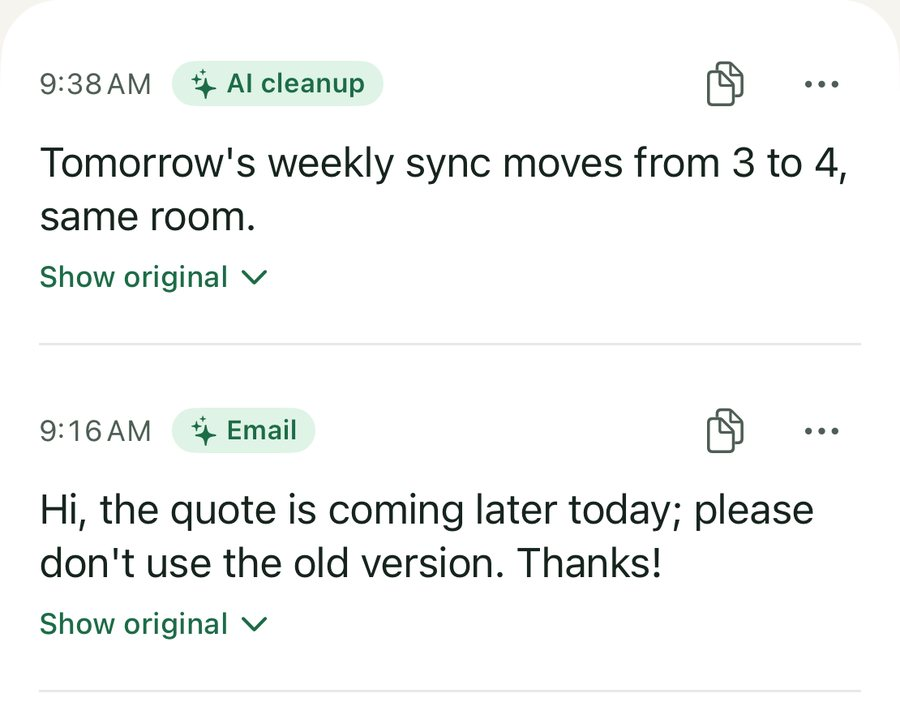
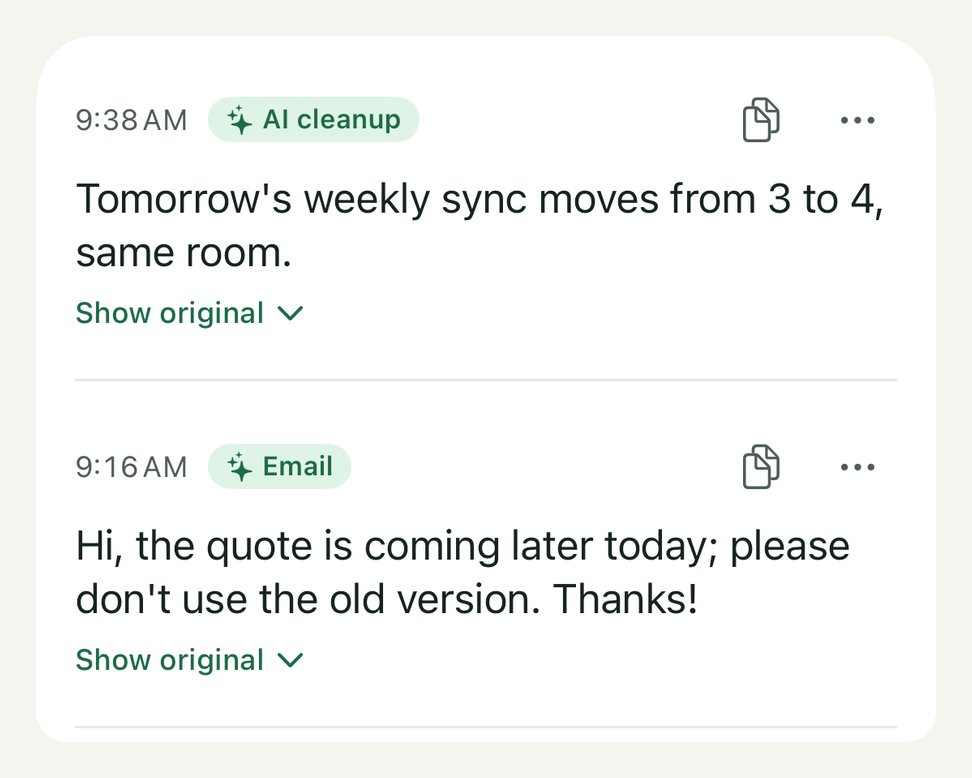
iPhone guide: give the app screenshots a margin so nothing is clipped
The crops ran edge to edge of the app's cards, so the page's rounded boxes cut
off the first letters and the switches on phones.

diff --git a/en/iphone/guide/index.html b/en/iphone/guide/index.html
@@ -75,7 +75,7 @@ a{text-decoration:none}
           <p style="margin:0;font-size:16px;line-height:1.7;color:var(--muted);text-wrap:pretty">It asks for the microphone, has you try a sentence, then turns on the keyboard. Follow along and you’re set.</p>
         </div>
         <div style="margin-top:auto;display:flex;flex-direction:column;gap:14px">
-          <div style="position:relative;width:100%;aspect-ratio:700/520;overflow:hidden;border-radius:18px;border:1px solid var(--line);background:#F4F2EE"><img src="/parroting/assets/iphone/guide/en/home.jpg" alt="Parroting’s Home screen" loading="lazy" style="position:absolute;inset:0;width:100%;height:100%;object-fit:cover;display:block"></div>
+          <div style="position:relative;width:100%;aspect-ratio:900/668;overflow:hidden;border-radius:18px;border:1px solid var(--line);background:#F4F2EE"><img src="/parroting/assets/iphone/guide/en/home.jpg" alt="Parroting’s Home screen" loading="lazy" style="position:absolute;inset:0;width:100%;height:100%;object-fit:cover;display:block"></div>
           <div style="display:flex;align-items:center;gap:14px;flex-wrap:wrap">
           <a href="https://apps.apple.com/app/id6828834904" style="display:block;line-height:0"><img src="/parroting/assets/badges/download-on-the-app-store-en-us.svg" alt="Download on the App Store" style="height:44px;width:auto"></a>
           </div>
@@ -109,7 +109,7 @@ a{text-decoration:none}
           <h3 style="margin:0;font-size:clamp(21px,1.8cqi,25px);font-weight:800;line-height:1.35">Turn on “Allow Full Access”</h3>
           <p style="margin:0;font-size:16px;line-height:1.7;color:var(--muted);text-wrap:pretty">On the “Keyboards” page, turn on both “Parroting” and “Allow Full Access”. The keyboard needs it to talk to the app and put text in the field; what you type is never collected.</p>
         </div>
-        <div style="margin-top:auto;position:relative;width:100%;aspect-ratio:615/230;overflow:hidden;border-radius:18px;border:1px solid var(--line)">
+        <div style="margin-top:auto;position:relative;width:100%;aspect-ratio:972/408;overflow:hidden;border-radius:18px;border:1px solid var(--line)">
           <img src="/parroting/assets/iphone/guide/en/onboard.jpg" alt="Parroting and Allow Full Access both turned on" loading="lazy" style="position:absolute;inset:0;width:100%;height:100%;object-fit:cover;display:block">
         </div>
       </div>
@@ -277,7 +277,7 @@ a{text-decoration:none}
         <span style="align-self:flex-start;font-size:13px;font-weight:700;color:var(--f2-ink);background:var(--f2-pill);border-radius:999px;padding:4px 12px">Translate</span>
         <h3 style="margin:0;font-size:clamp(28px,3cqi,44px);font-weight:900;line-height:1.2;text-wrap:balance">Tap a language, get the translation</h3>
         <ol style="margin:0;padding:0;list-style:none;display:flex;flex-direction:column;gap:10px;max-width:440px"><li style="display:flex;gap:12px;align-items:flex-start;font-size:16px;line-height:1.65"><b style="flex:none;width:26px;height:26px;margin-top:1px;border-radius:50%;background:#247A52;color:#FFFFFF;font-size:13px;display:flex;align-items:center;justify-content:center">1</b><span>Select the text to translate (or the take you just said) and switch to the “Translate” page.</span></li><li style="display:flex;gap:12px;align-items:flex-start;font-size:16px;line-height:1.65"><b style="flex:none;width:26px;height:26px;margin-top:1px;border-radius:50%;background:#247A52;color:#FFFFFF;font-size:13px;display:flex;align-items:center;justify-content:center">2</b><span>Tap a language; the translation replaces the text in the field.</span></li><li style="display:flex;gap:12px;align-items:flex-start;font-size:16px;line-height:1.65"><b style="flex:none;width:26px;height:26px;margin-top:1px;border-radius:50%;background:#247A52;color:#FFFFFF;font-size:13px;display:flex;align-items:center;justify-content:center">3</b><span>To get the original back, tap ↶.</span></li></ol>
-        <div style="display:flex;flex-direction:column;gap:8px;max-width:440px"><span style="font-size:15px;line-height:1.7;color:var(--muted)">Change your four languages in Settings › Translation languages:</span><div style="position:relative;width:100%;aspect-ratio:644/126;overflow:hidden;border-radius:18px;border:1px solid var(--line);background:#F4F2EE"><img src="/parroting/assets/iphone/guide/en/translate-langs.jpg" alt="Translation languages in Settings" loading="lazy" style="position:absolute;inset:0;width:100%;height:100%;object-fit:cover;display:block"></div></div>
+        <div style="display:flex;flex-direction:column;gap:8px;max-width:440px"><span style="font-size:15px;line-height:1.7;color:var(--muted)">Change your four languages in Settings › Translation languages:</span><div style="position:relative;width:100%;aspect-ratio:972/248;overflow:hidden;border-radius:18px;border:1px solid var(--line);background:#F4F2EE"><img src="/parroting/assets/iphone/guide/en/translate-langs.jpg" alt="Translation languages in Settings" loading="lazy" style="position:absolute;inset:0;width:100%;height:100%;object-fit:cover;display:block"></div></div>
       </div>
       <div style="flex:1.4 1 360px;min-width:0;border-radius:32px;overflow:hidden;background:radial-gradient(55% 65% at 15% 25%,var(--f2-a),transparent 70%),radial-gradient(50% 60% at 88% 80%,var(--f4-a),transparent 72%),var(--f2-base);display:flex;align-items:center;justify-content:center;padding:clamp(18px,3.4cqi,48px)">
         <div style="width:100%;max-width:480px;display:flex;flex-direction:column"><div style="position:relative;z-index:2;background:var(--bubble);border-radius:22px;padding:clamp(14px,1.6cqi,20px) clamp(16px,1.8cqi,24px);display:flex;gap:12px;align-items:center;box-shadow:0 12px 32px var(--shadow);margin:0 10% -12px 0"><span style="flex:none;font-size:12px;font-weight:700;color:var(--muted);border:1px solid var(--line);border-radius:999px;padding:3px 10px;white-space:nowrap">Original</span><p style="margin:0;font-size:clamp(16px,1.5cqi,20px);line-height:1.5"><span style="background:var(--f2-a);border-radius:5px;padding:0 4px">下週的會議改到四點，地點不變。</span></p></div><div style="position:relative;width:100%;aspect-ratio:900/940;overflow:hidden;border-radius:8% / 7.6%;background:#E4E5E9;box-shadow:0 12px 32px var(--shadow)"><img src="/parroting/assets/iphone/guide/en/kb-translate.jpg" loading="lazy" alt="The keyboard’s Translate page" style="position:absolute;max-width:none;width:102%;left:-1%;top:-2.5%;display:block"><span style="position:absolute;left:51.02%;top:35.63%;width:45.9%;height:11.029%;box-sizing:border-box;border:3px solid #247A52;border-radius:18px;background:rgba(36,122,82,.10);box-shadow:0 0 0 5px rgba(255,255,255,.75)"><b style="position:absolute;left:-14px;top:-14px;width:28px;height:28px;border-radius:50%;background:#247A52;color:#FFFFFF;border:3px solid #FFFFFF;box-sizing:border-box;font-size:13px;display:flex;align-items:center;justify-content:center">1</b></span><span style="position:absolute;left:1.04%;top:72.394%;width:12.75%;height:10.714%;box-sizing:border-box;border:3px solid #247A52;border-radius:18px;background:rgba(36,122,82,.10);box-shadow:0 0 0 5px rgba(255,255,255,.75)"><b style="position:absolute;left:-14px;top:-14px;width:28px;height:28px;border-radius:50%;background:#247A52;color:#FFFFFF;border:3px solid #FFFFFF;box-sizing:border-box;font-size:13px;display:flex;align-items:center;justify-content:center">2</b></span></div><div style="position:relative;z-index:2;background:var(--f1-res);border:1px solid var(--f1-bd);border-radius:22px;padding:clamp(14px,1.6cqi,20px) clamp(16px,1.8cqi,24px);display:flex;gap:12px;align-items:center;box-shadow:0 12px 32px var(--shadow);margin:-20px 0 0 10%"><span style="flex:none;font-size:12px;font-weight:700;color:var(--f1-ink);background:var(--f1-pill);border-radius:999px;padding:3px 10px;white-space:nowrap">English</span><p style="margin:0;font-size:clamp(17px,1.6cqi,22px);line-height:1.5;font-weight:800">Next week’s meeting moves to 4 pm. Same room.</p></div></div>
@@ -301,7 +301,7 @@ a{text-decoration:none}
         <div style="display:flex;flex-direction:column;align-items:flex-start;gap:10px"><div style="display:flex;align-items:center;gap:10px;background:var(--bubble);border-radius:999px;padding:9px 18px;font-size:17px;box-shadow:0 6px 18px var(--shadow)"><s style="color:var(--muted)">eye cloud</s><span style="color:var(--f1-ink)">→</span><b>iCloud</b></div><div style="display:flex;align-items:center;gap:10px;background:var(--bubble);border-radius:999px;padding:9px 18px;font-size:17px;box-shadow:0 6px 18px var(--shadow)"><s style="color:var(--muted)">Alex Chan</s><span style="color:var(--f1-ink)">→</span><b>Alex Chen</b></div></div>
       </div>
       <div style="flex:1.4 1 360px;min-width:0;border-radius:32px;background:radial-gradient(60% 70% at 20% 30%,var(--f1-a),transparent 70%),var(--f1-base);padding:clamp(18px,3.4cqi,48px);display:flex;justify-content:center">
-        <div style="width:100%;max-width:440px;box-shadow:0 12px 32px var(--shadow);border-radius:18px"><div style="position:relative;width:100%;aspect-ratio:644/575;overflow:hidden;border-radius:18px;border:1px solid var(--line);background:#F4F2EE"><img src="/parroting/assets/iphone/guide/en/dictionary.jpg" alt="Words in the Parroting dictionary" loading="lazy" style="position:absolute;inset:0;width:100%;height:100%;object-fit:cover;display:block"></div></div>
+        <div style="width:100%;max-width:440px;box-shadow:0 12px 32px var(--shadow);border-radius:18px"><div style="position:relative;width:100%;aspect-ratio:972/876;overflow:hidden;border-radius:18px;border:1px solid var(--line);background:#F4F2EE"><img src="/parroting/assets/iphone/guide/en/dictionary.jpg" alt="Words in the Parroting dictionary" loading="lazy" style="position:absolute;inset:0;width:100%;height:100%;object-fit:cover;display:block"></div></div>
       </div>
     </div>
     <div style="margin-top:clamp(56px,6cqi,96px);display:flex;flex-direction:column;gap:20px">
@@ -342,21 +342,21 @@ a{text-decoration:none}
     <div style="display:grid;grid-template-columns:repeat(auto-fit,minmax(min(100%,400px),1fr));gap:20px;align-items:start">
       <div style="background:var(--card);border:1px solid var(--line);border-radius:28px;padding:clamp(20px,2.4cqi,32px);display:flex;flex-direction:column;gap:16px">
         <div style="display:flex;flex-direction:column;gap:6px"><h3 style="margin:0;font-size:clamp(20px,1.8cqi,24px);font-weight:800">AI source</h3><p style="margin:0;font-size:16px;line-height:1.7;color:var(--muted);text-wrap:pretty"><b style="color:var(--ink)">Apple built-in</b>: uses Apple Intelligence on your iPhone. Free, works offline, and text never leaves your phone.<br><b style="color:var(--ink)">My API key</b>: paste a Gemini, OpenAI, OpenRouter, Groq or custom key. Text goes straight from your phone to the service you pick, never through Parroting.</p></div>
-        <div style="position:relative;width:100%;aspect-ratio:644/492;overflow:hidden;border-radius:18px;border:1px solid var(--line);background:#F4F2EE"><img src="/parroting/assets/iphone/guide/en/ai-source.jpg" alt="AI source in Settings" loading="lazy" style="position:absolute;inset:0;width:100%;height:100%;object-fit:cover;display:block"></div>
+        <div style="position:relative;width:100%;aspect-ratio:972/759;overflow:hidden;border-radius:18px;border:1px solid var(--line);background:#F4F2EE"><img src="/parroting/assets/iphone/guide/en/ai-source.jpg" alt="AI source in Settings" loading="lazy" style="position:absolute;inset:0;width:100%;height:100%;object-fit:cover;display:block"></div>
       </div>
       <div style="background:var(--card);border:1px solid var(--line);border-radius:28px;padding:clamp(20px,2.4cqi,32px);display:flex;flex-direction:column;gap:16px">
         <div style="display:flex;flex-direction:column;gap:6px"><h3 style="margin:0;font-size:clamp(20px,1.8cqi,24px);font-weight:800">History</h3><p style="margin:0;font-size:16px;line-height:1.7;color:var(--muted);text-wrap:pretty">The “History” tab at the bottom keeps every sentence. Search it, and see the original before cleanup.</p></div>
-        <div style="position:relative;width:100%;aspect-ratio:644/505;overflow:hidden;border-radius:18px;border:1px solid var(--line);background:#F4F2EE"><img src="/parroting/assets/iphone/guide/en/history.jpg" alt="The History tab" loading="lazy" style="position:absolute;inset:0;width:100%;height:100%;object-fit:cover;display:block"></div>
+        <div style="position:relative;width:100%;aspect-ratio:972/778;overflow:hidden;border-radius:18px;border:1px solid var(--line);background:#F4F2EE"><img src="/parroting/assets/iphone/guide/en/history.jpg" alt="The History tab" loading="lazy" style="position:absolute;inset:0;width:100%;height:100%;object-fit:cover;display:block"></div>
       </div>
     </div>
     <div style="margin-top:20px;display:grid;grid-template-columns:repeat(auto-fit,minmax(min(100%,280px),1fr));gap:20px;align-items:start">
       <div style="background:var(--card);border:1px solid var(--line);border-radius:28px;padding:clamp(20px,2.4cqi,32px);display:flex;flex-direction:column;gap:16px">
         <div style="display:flex;flex-direction:column;gap:6px"><h3 style="margin:0;font-size:clamp(20px,1.8cqi,24px);font-weight:800">Recognition language</h3><p style="margin:0;font-size:16px;line-height:1.7;color:var(--muted);text-wrap:pretty">Follows the system by default. Change it here when you speak another language.</p></div>
-        <div style="position:relative;width:100%;aspect-ratio:644/126;overflow:hidden;border-radius:18px;border:1px solid var(--line);background:#F4F2EE"><img src="/parroting/assets/iphone/guide/en/recognition.jpg" alt="Recognition language in Settings" loading="lazy" style="position:absolute;inset:0;width:100%;height:100%;object-fit:cover;display:block"></div>
+        <div style="position:relative;width:100%;aspect-ratio:972/248;overflow:hidden;border-radius:18px;border:1px solid var(--line);background:#F4F2EE"><img src="/parroting/assets/iphone/guide/en/recognition.jpg" alt="Recognition language in Settings" loading="lazy" style="position:absolute;inset:0;width:100%;height:100%;object-fit:cover;display:block"></div>
       </div>
       <div style="background:var(--card);border:1px solid var(--line);border-radius:28px;padding:clamp(20px,2.4cqi,32px);display:flex;flex-direction:column;gap:16px">
         <div style="display:flex;flex-direction:column;gap:6px"><h3 style="margin:0;font-size:clamp(20px,1.8cqi,24px);font-weight:800">My info</h3><p style="margin:0;font-size:16px;line-height:1.7;color:var(--muted);text-wrap:pretty">Fill in your name and title once; the Email format adds them for you.</p></div>
-        <div style="position:relative;width:100%;aspect-ratio:644/90;overflow:hidden;border-radius:18px;border:1px solid var(--line);background:#F4F2EE"><img src="/parroting/assets/iphone/guide/en/my-info.jpg" alt="My info in Settings" loading="lazy" style="position:absolute;inset:0;width:100%;height:100%;object-fit:cover;display:block"></div>
+        <div style="position:relative;width:100%;aspect-ratio:972/198;overflow:hidden;border-radius:18px;border:1px solid var(--line);background:#F4F2EE"><img src="/parroting/assets/iphone/guide/en/my-info.jpg" alt="My info in Settings" loading="lazy" style="position:absolute;inset:0;width:100%;height:100%;object-fit:cover;display:block"></div>
       </div>
       <div style="background:var(--card);border:1px solid var(--line);border-radius:28px;padding:clamp(20px,2.4cqi,32px);display:flex;flex-direction:column;gap:16px">
         <div style="display:flex;flex-direction:column;gap:6px"><h3 style="margin:0;font-size:clamp(20px,1.8cqi,24px);font-weight:800">Something wrong?</h3><p style="margin:0;font-size:16px;line-height:1.7;color:var(--muted);text-wrap:pretty">Tell us right in the app.</p></div>

diff --git a/iphone/guide/index.html b/iphone/guide/index.html
@@ -75,7 +75,7 @@ a{text-decoration:none}
           <p style="margin:0;font-size:16px;line-height:1.7;color:var(--muted);text-wrap:pretty">第一次會帶你允許麥克風、試講一句、再打開鍵盤。跟著做完就能用。</p>
         </div>
         <div style="margin-top:auto;display:flex;flex-direction:column;gap:14px">
-          <div style="position:relative;width:100%;aspect-ratio:700/520;overflow:hidden;border-radius:18px;border:1px solid var(--line);background:#F4F2EE"><img src="/parroting/assets/iphone/guide/zh-Hant/home.jpg" alt="學舌鳥首頁" loading="lazy" style="position:absolute;inset:0;width:100%;height:100%;object-fit:cover;display:block"></div>
+          <div style="position:relative;width:100%;aspect-ratio:900/668;overflow:hidden;border-radius:18px;border:1px solid var(--line);background:#F4F2EE"><img src="/parroting/assets/iphone/guide/zh-Hant/home.jpg" alt="學舌鳥首頁" loading="lazy" style="position:absolute;inset:0;width:100%;height:100%;object-fit:cover;display:block"></div>
           <div style="display:flex;align-items:center;gap:14px;flex-wrap:wrap">
           <a href="https://apps.apple.com/app/id6828834904" style="display:block;line-height:0"><img src="/parroting/assets/badges/download-on-the-app-store-zh-tw.svg" alt="從 App Store 下載" style="height:44px;width:auto"></a>
           </div>
@@ -109,7 +109,7 @@ a{text-decoration:none}
           <h3 style="margin:0;font-size:clamp(21px,1.8cqi,25px);font-weight:800;line-height:1.35">打開「允許完整取用」</h3>
           <p style="margin:0;font-size:16px;line-height:1.7;color:var(--muted);text-wrap:pretty">在「鍵盤」這頁，把「學舌鳥」和「允許完整取用」都打開。鍵盤要靠它和 App 傳話、把字送進輸入框；你打的字不會被收集。</p>
         </div>
-        <div style="margin-top:auto;position:relative;width:100%;aspect-ratio:615/230;overflow:hidden;border-radius:18px;border:1px solid var(--line)">
+        <div style="margin-top:auto;position:relative;width:100%;aspect-ratio:972/408;overflow:hidden;border-radius:18px;border:1px solid var(--line)">
           <img src="/parroting/assets/iphone/guide/zh-Hant/onboard.jpg" alt="學舌鳥與允許完整取用兩個開關都打開" loading="lazy" style="position:absolute;inset:0;width:100%;height:100%;object-fit:cover;display:block">
         </div>
       </div>
@@ -277,7 +277,7 @@ a{text-decoration:none}
         <span style="align-self:flex-start;font-size:13px;font-weight:700;color:var(--f2-ink);background:var(--f2-pill);border-radius:999px;padding:4px 12px">翻譯</span>
         <h3 style="margin:0;font-size:clamp(28px,3cqi,44px);font-weight:900;line-height:1.2;text-wrap:balance">點一個語言，就換成譯文</h3>
         <ol style="margin:0;padding:0;list-style:none;display:flex;flex-direction:column;gap:10px;max-width:440px"><li style="display:flex;gap:12px;align-items:flex-start;font-size:16px;line-height:1.65"><b style="flex:none;width:26px;height:26px;margin-top:1px;border-radius:50%;background:#247A52;color:#FFFFFF;font-size:13px;display:flex;align-items:center;justify-content:center">1</b><span>選取要翻的字（或剛說完那一段），切到「翻譯」分頁。</span></li><li style="display:flex;gap:12px;align-items:flex-start;font-size:16px;line-height:1.65"><b style="flex:none;width:26px;height:26px;margin-top:1px;border-radius:50%;background:#247A52;color:#FFFFFF;font-size:13px;display:flex;align-items:center;justify-content:center">2</b><span>點一個語言，譯文直接換進輸入框。</span></li><li style="display:flex;gap:12px;align-items:flex-start;font-size:16px;line-height:1.65"><b style="flex:none;width:26px;height:26px;margin-top:1px;border-radius:50%;background:#247A52;color:#FFFFFF;font-size:13px;display:flex;align-items:center;justify-content:center">3</b><span>想回到原文，按 ↶。</span></li></ol>
-        <div style="display:flex;flex-direction:column;gap:8px;max-width:440px"><span style="font-size:15px;line-height:1.7;color:var(--muted)">常用的四種語言在「設定 › 翻譯常用語言」換：</span><div style="position:relative;width:100%;aspect-ratio:644/126;overflow:hidden;border-radius:18px;border:1px solid var(--line);background:#F4F2EE"><img src="/parroting/assets/iphone/guide/zh-Hant/translate-langs.jpg" alt="設定裡的翻譯常用語言" loading="lazy" style="position:absolute;inset:0;width:100%;height:100%;object-fit:cover;display:block"></div></div>
+        <div style="display:flex;flex-direction:column;gap:8px;max-width:440px"><span style="font-size:15px;line-height:1.7;color:var(--muted)">常用的四種語言在「設定 › 翻譯常用語言」換：</span><div style="position:relative;width:100%;aspect-ratio:972/248;overflow:hidden;border-radius:18px;border:1px solid var(--line);background:#F4F2EE"><img src="/parroting/assets/iphone/guide/zh-Hant/translate-langs.jpg" alt="設定裡的翻譯常用語言" loading="lazy" style="position:absolute;inset:0;width:100%;height:100%;object-fit:cover;display:block"></div></div>
       </div>
       <div style="flex:1.4 1 360px;min-width:0;border-radius:32px;overflow:hidden;background:radial-gradient(55% 65% at 15% 25%,var(--f2-a),transparent 70%),radial-gradient(50% 60% at 88% 80%,var(--f4-a),transparent 72%),var(--f2-base);display:flex;align-items:center;justify-content:center;padding:clamp(18px,3.4cqi,48px)">
         <div style="width:100%;max-width:480px;display:flex;flex-direction:column"><div style="position:relative;z-index:2;background:var(--bubble);border-radius:22px;padding:clamp(14px,1.6cqi,20px) clamp(16px,1.8cqi,24px);display:flex;gap:12px;align-items:center;box-shadow:0 12px 32px var(--shadow);margin:0 10% -12px 0"><span style="flex:none;font-size:12px;font-weight:700;color:var(--muted);border:1px solid var(--line);border-radius:999px;padding:3px 10px;white-space:nowrap">原文</span><p style="margin:0;font-size:clamp(16px,1.5cqi,20px);line-height:1.5"><span style="background:var(--f2-a);border-radius:5px;padding:0 4px">下週的會議改到四點，地點不變。</span></p></div><div style="position:relative;width:100%;aspect-ratio:900/940;overflow:hidden;border-radius:8% / 7.6%;background:#E4E5E9;box-shadow:0 12px 32px var(--shadow)"><img src="/parroting/assets/iphone/guide/zh-Hant/kb-translate.jpg" loading="lazy" alt="學舌鳥鍵盤翻譯分頁" style="position:absolute;max-width:none;width:102%;left:-1%;top:-2.5%;display:block"><span style="position:absolute;left:51.02%;top:35.63%;width:45.9%;height:11.029%;box-sizing:border-box;border:3px solid #247A52;border-radius:18px;background:rgba(36,122,82,.10);box-shadow:0 0 0 5px rgba(255,255,255,.75)"><b style="position:absolute;left:-14px;top:-14px;width:28px;height:28px;border-radius:50%;background:#247A52;color:#FFFFFF;border:3px solid #FFFFFF;box-sizing:border-box;font-size:13px;display:flex;align-items:center;justify-content:center">1</b></span><span style="position:absolute;left:1.04%;top:72.394%;width:12.75%;height:10.714%;box-sizing:border-box;border:3px solid #247A52;border-radius:18px;background:rgba(36,122,82,.10);box-shadow:0 0 0 5px rgba(255,255,255,.75)"><b style="position:absolute;left:-14px;top:-14px;width:28px;height:28px;border-radius:50%;background:#247A52;color:#FFFFFF;border:3px solid #FFFFFF;box-sizing:border-box;font-size:13px;display:flex;align-items:center;justify-content:center">2</b></span></div><div style="position:relative;z-index:2;background:var(--f1-res);border:1px solid var(--f1-bd);border-radius:22px;padding:clamp(14px,1.6cqi,20px) clamp(16px,1.8cqi,24px);display:flex;gap:12px;align-items:center;box-shadow:0 12px 32px var(--shadow);margin:-20px 0 0 10%"><span style="flex:none;font-size:12px;font-weight:700;color:var(--f1-ink);background:var(--f1-pill);border-radius:999px;padding:3px 10px;white-space:nowrap">English</span><p style="margin:0;font-size:clamp(17px,1.6cqi,22px);line-height:1.5;font-weight:800">Next week’s meeting moves to 4 pm. Same room.</p></div></div>
@@ -301,7 +301,7 @@ a{text-decoration:none}
         <div style="display:flex;flex-direction:column;align-items:flex-start;gap:10px"><div style="display:flex;align-items:center;gap:10px;background:var(--bubble);border-radius:999px;padding:9px 18px;font-size:17px;box-shadow:0 6px 18px var(--shadow)"><s style="color:var(--muted)">愛可勞德</s><span style="color:var(--f1-ink)">→</span><b>iCloud</b></div><div style="display:flex;align-items:center;gap:10px;background:var(--bubble);border-radius:999px;padding:9px 18px;font-size:17px;box-shadow:0 6px 18px var(--shadow)"><s style="color:var(--muted)">陳小名</s><span style="color:var(--f1-ink)">→</span><b>陳小明</b></div></div>
       </div>
       <div style="flex:1.4 1 360px;min-width:0;border-radius:32px;background:radial-gradient(60% 70% at 20% 30%,var(--f1-a),transparent 70%),var(--f1-base);padding:clamp(18px,3.4cqi,48px);display:flex;justify-content:center">
-        <div style="width:100%;max-width:440px;box-shadow:0 12px 32px var(--shadow);border-radius:18px"><div style="position:relative;width:100%;aspect-ratio:644/575;overflow:hidden;border-radius:18px;border:1px solid var(--line);background:#F4F2EE"><img src="/parroting/assets/iphone/guide/zh-Hant/dictionary.jpg" alt="學舌鳥詞典裡的詞彙" loading="lazy" style="position:absolute;inset:0;width:100%;height:100%;object-fit:cover;display:block"></div></div>
+        <div style="width:100%;max-width:440px;box-shadow:0 12px 32px var(--shadow);border-radius:18px"><div style="position:relative;width:100%;aspect-ratio:972/875;overflow:hidden;border-radius:18px;border:1px solid var(--line);background:#F4F2EE"><img src="/parroting/assets/iphone/guide/zh-Hant/dictionary.jpg" alt="學舌鳥詞典裡的詞彙" loading="lazy" style="position:absolute;inset:0;width:100%;height:100%;object-fit:cover;display:block"></div></div>
       </div>
     </div>
     <div style="margin-top:clamp(56px,6cqi,96px);display:flex;flex-direction:column;gap:20px">
@@ -342,21 +342,21 @@ a{text-decoration:none}
     <div style="display:grid;grid-template-columns:repeat(auto-fit,minmax(min(100%,400px),1fr));gap:20px;align-items:start">
       <div style="background:var(--card);border:1px solid var(--line);border-radius:28px;padding:clamp(20px,2.4cqi,32px);display:flex;flex-direction:column;gap:16px">
         <div style="display:flex;flex-direction:column;gap:6px"><h3 style="margin:0;font-size:clamp(20px,1.8cqi,24px);font-weight:800">AI 來源</h3><p style="margin:0;font-size:16px;line-height:1.7;color:var(--muted);text-wrap:pretty"><b style="color:var(--ink)">Apple 內建</b>：用 iPhone 上的 Apple Intelligence，免費、不用網路，文字不離開手機。<br><b style="color:var(--ink)">我的 API key</b>：貼上 Gemini、OpenAI、OpenRouter、Groq 或自訂的 key，文字從手機直接送到你選的服務，不經過學舌鳥。</p></div>
-        <div style="position:relative;width:100%;aspect-ratio:644/492;overflow:hidden;border-radius:18px;border:1px solid var(--line);background:#F4F2EE"><img src="/parroting/assets/iphone/guide/zh-Hant/ai-source.jpg" alt="設定裡的 AI 來源" loading="lazy" style="position:absolute;inset:0;width:100%;height:100%;object-fit:cover;display:block"></div>
+        <div style="position:relative;width:100%;aspect-ratio:972/759;overflow:hidden;border-radius:18px;border:1px solid var(--line);background:#F4F2EE"><img src="/parroting/assets/iphone/guide/zh-Hant/ai-source.jpg" alt="設定裡的 AI 來源" loading="lazy" style="position:absolute;inset:0;width:100%;height:100%;object-fit:cover;display:block"></div>
       </div>
       <div style="background:var(--card);border:1px solid var(--line);border-radius:28px;padding:clamp(20px,2.4cqi,32px);display:flex;flex-direction:column;gap:16px">
         <div style="display:flex;flex-direction:column;gap:6px"><h3 style="margin:0;font-size:clamp(20px,1.8cqi,24px);font-weight:800">紀錄</h3><p style="margin:0;font-size:16px;line-height:1.7;color:var(--muted);text-wrap:pretty">在下方的「紀錄」分頁：說過的每一句都留著，可以搜尋，也能看整理前的原文。</p></div>
-        <div style="position:relative;width:100%;aspect-ratio:644/440;overflow:hidden;border-radius:18px;border:1px solid var(--line);background:#F4F2EE"><img src="/parroting/assets/iphone/guide/zh-Hant/history.jpg" alt="紀錄頁" loading="lazy" style="position:absolute;inset:0;width:100%;height:100%;object-fit:cover;display:block"></div>
+        <div style="position:relative;width:100%;aspect-ratio:972/687;overflow:hidden;border-radius:18px;border:1px solid var(--line);background:#F4F2EE"><img src="/parroting/assets/iphone/guide/zh-Hant/history.jpg" alt="紀錄頁" loading="lazy" style="position:absolute;inset:0;width:100%;height:100%;object-fit:cover;display:block"></div>
       </div>
     </div>
     <div style="margin-top:20px;display:grid;grid-template-columns:repeat(auto-fit,minmax(min(100%,280px),1fr));gap:20px;align-items:start">
       <div style="background:var(--card);border:1px solid var(--line);border-radius:28px;padding:clamp(20px,2.4cqi,32px);display:flex;flex-direction:column;gap:16px">
         <div style="display:flex;flex-direction:column;gap:6px"><h3 style="margin:0;font-size:clamp(20px,1.8cqi,24px);font-weight:800">辨識語言</h3><p style="margin:0;font-size:16px;line-height:1.7;color:var(--muted);text-wrap:pretty">預設跟著系統。講其他語言時，到這裡換。</p></div>
-        <div style="position:relative;width:100%;aspect-ratio:644/126;overflow:hidden;border-radius:18px;border:1px solid var(--line);background:#F4F2EE"><img src="/parroting/assets/iphone/guide/zh-Hant/recognition.jpg" alt="設定裡的辨識語言" loading="lazy" style="position:absolute;inset:0;width:100%;height:100%;object-fit:cover;display:block"></div>
+        <div style="position:relative;width:100%;aspect-ratio:972/248;overflow:hidden;border-radius:18px;border:1px solid var(--line);background:#F4F2EE"><img src="/parroting/assets/iphone/guide/zh-Hant/recognition.jpg" alt="設定裡的辨識語言" loading="lazy" style="position:absolute;inset:0;width:100%;height:100%;object-fit:cover;display:block"></div>
       </div>
       <div style="background:var(--card);border:1px solid var(--line);border-radius:28px;padding:clamp(20px,2.4cqi,32px);display:flex;flex-direction:column;gap:16px">
         <div style="display:flex;flex-direction:column;gap:6px"><h3 style="margin:0;font-size:clamp(20px,1.8cqi,24px);font-weight:800">我的資料</h3><p style="margin:0;font-size:16px;line-height:1.7;color:var(--muted);text-wrap:pretty">署名、職稱填一次，寫信格式自動帶入。</p></div>
-        <div style="position:relative;width:100%;aspect-ratio:644/90;overflow:hidden;border-radius:18px;border:1px solid var(--line);background:#F4F2EE"><img src="/parroting/assets/iphone/guide/zh-Hant/my-info.jpg" alt="設定裡的我的資料" loading="lazy" style="position:absolute;inset:0;width:100%;height:100%;object-fit:cover;display:block"></div>
+        <div style="position:relative;width:100%;aspect-ratio:972/198;overflow:hidden;border-radius:18px;border:1px solid var(--line);background:#F4F2EE"><img src="/parroting/assets/iphone/guide/zh-Hant/my-info.jpg" alt="設定裡的我的資料" loading="lazy" style="position:absolute;inset:0;width:100%;height:100%;object-fit:cover;display:block"></div>
       </div>
       <div style="background:var(--card);border:1px solid var(--line);border-radius:28px;padding:clamp(20px,2.4cqi,32px);display:flex;flex-direction:column;gap:16px">
         <div style="display:flex;flex-direction:column;gap:6px"><h3 style="margin:0;font-size:clamp(20px,1.8cqi,24px);font-weight:800">遇到問題</h3><p style="margin:0;font-size:16px;line-height:1.7;color:var(--muted);text-wrap:pretty">在 App 裡直接告訴我們。</p></div>

diff --git a/zh-Hans/iphone/guide/index.html b/zh-Hans/iphone/guide/index.html
@@ -75,7 +75,7 @@ a{text-decoration:none}
           <p style="margin:0;font-size:16px;line-height:1.7;color:var(--muted);text-wrap:pretty">第一次会带你允许麦克风、试讲一句、再打开键盘。跟着做完就能用。</p>
         </div>
         <div style="margin-top:auto;display:flex;flex-direction:column;gap:14px">
-          <div style="position:relative;width:100%;aspect-ratio:700/520;overflow:hidden;border-radius:18px;border:1px solid var(--line);background:#F4F2EE"><img src="/parroting/assets/iphone/guide/zh-Hans/home.jpg" alt="学舌鸟首页" loading="lazy" style="position:absolute;inset:0;width:100%;height:100%;object-fit:cover;display:block"></div>
+          <div style="position:relative;width:100%;aspect-ratio:900/668;overflow:hidden;border-radius:18px;border:1px solid var(--line);background:#F4F2EE"><img src="/parroting/assets/iphone/guide/zh-Hans/home.jpg" alt="学舌鸟首页" loading="lazy" style="position:absolute;inset:0;width:100%;height:100%;object-fit:cover;display:block"></div>
           <div style="display:flex;align-items:center;gap:14px;flex-wrap:wrap">
           <a href="https://apps.apple.com/app/id6828834904" style="display:block;line-height:0"><img src="/parroting/assets/badges/download-on-the-app-store-zh-cn.svg" alt="从 App Store 下载" style="height:44px;width:auto"></a>
           </div>
@@ -109,7 +109,7 @@ a{text-decoration:none}
           <h3 style="margin:0;font-size:clamp(21px,1.8cqi,25px);font-weight:800;line-height:1.35">打开「允许完全访问」</h3>
           <p style="margin:0;font-size:16px;line-height:1.7;color:var(--muted);text-wrap:pretty">在「键盘」这页，把「学舌鸟」和「允许完全访问」都打开。键盘要靠它和 App 通信、把字送进输入框；你打的字不会被收集。</p>
         </div>
-        <div style="margin-top:auto;position:relative;width:100%;aspect-ratio:615/230;overflow:hidden;border-radius:18px;border:1px solid var(--line)">
+        <div style="margin-top:auto;position:relative;width:100%;aspect-ratio:972/408;overflow:hidden;border-radius:18px;border:1px solid var(--line)">
           <img src="/parroting/assets/iphone/guide/zh-Hans/onboard.jpg" alt="学舌鸟与允许完全访问两个开关都打开" loading="lazy" style="position:absolute;inset:0;width:100%;height:100%;object-fit:cover;display:block">
         </div>
       </div>
@@ -277,7 +277,7 @@ a{text-decoration:none}
         <span style="align-self:flex-start;font-size:13px;font-weight:700;color:var(--f2-ink);background:var(--f2-pill);border-radius:999px;padding:4px 12px">翻译</span>
         <h3 style="margin:0;font-size:clamp(28px,3cqi,44px);font-weight:900;line-height:1.2;text-wrap:balance">点一个语言，就换成译文</h3>
         <ol style="margin:0;padding:0;list-style:none;display:flex;flex-direction:column;gap:10px;max-width:440px"><li style="display:flex;gap:12px;align-items:flex-start;font-size:16px;line-height:1.65"><b style="flex:none;width:26px;height:26px;margin-top:1px;border-radius:50%;background:#247A52;color:#FFFFFF;font-size:13px;display:flex;align-items:center;justify-content:center">1</b><span>选中要翻的字（或刚说完那一段），切到「翻译」页。</span></li><li style="display:flex;gap:12px;align-items:flex-start;font-size:16px;line-height:1.65"><b style="flex:none;width:26px;height:26px;margin-top:1px;border-radius:50%;background:#247A52;color:#FFFFFF;font-size:13px;display:flex;align-items:center;justify-content:center">2</b><span>点一个语言，译文直接换进输入框。</span></li><li style="display:flex;gap:12px;align-items:flex-start;font-size:16px;line-height:1.65"><b style="flex:none;width:26px;height:26px;margin-top:1px;border-radius:50%;background:#247A52;color:#FFFFFF;font-size:13px;display:flex;align-items:center;justify-content:center">3</b><span>想回到原文，按 ↶。</span></li></ol>
-        <div style="display:flex;flex-direction:column;gap:8px;max-width:440px"><span style="font-size:15px;line-height:1.7;color:var(--muted)">常用的四种语言在「设置 › 翻译常用语言」换：</span><div style="position:relative;width:100%;aspect-ratio:644/126;overflow:hidden;border-radius:18px;border:1px solid var(--line);background:#F4F2EE"><img src="/parroting/assets/iphone/guide/zh-Hans/translate-langs.jpg" alt="设置里的翻译常用语言" loading="lazy" style="position:absolute;inset:0;width:100%;height:100%;object-fit:cover;display:block"></div></div>
+        <div style="display:flex;flex-direction:column;gap:8px;max-width:440px"><span style="font-size:15px;line-height:1.7;color:var(--muted)">常用的四种语言在「设置 › 翻译常用语言」换：</span><div style="position:relative;width:100%;aspect-ratio:972/248;overflow:hidden;border-radius:18px;border:1px solid var(--line);background:#F4F2EE"><img src="/parroting/assets/iphone/guide/zh-Hans/translate-langs.jpg" alt="设置里的翻译常用语言" loading="lazy" style="position:absolute;inset:0;width:100%;height:100%;object-fit:cover;display:block"></div></div>
       </div>
       <div style="flex:1.4 1 360px;min-width:0;border-radius:32px;overflow:hidden;background:radial-gradient(55% 65% at 15% 25%,var(--f2-a),transparent 70%),radial-gradient(50% 60% at 88% 80%,var(--f4-a),transparent 72%),var(--f2-base);display:flex;align-items:center;justify-content:center;padding:clamp(18px,3.4cqi,48px)">
         <div style="width:100%;max-width:480px;display:flex;flex-direction:column"><div style="position:relative;z-index:2;background:var(--bubble);border-radius:22px;padding:clamp(14px,1.6cqi,20px) clamp(16px,1.8cqi,24px);display:flex;gap:12px;align-items:center;box-shadow:0 12px 32px var(--shadow);margin:0 10% -12px 0"><span style="flex:none;font-size:12px;font-weight:700;color:var(--muted);border:1px solid var(--line);border-radius:999px;padding:3px 10px;white-space:nowrap">原文</span><p style="margin:0;font-size:clamp(16px,1.5cqi,20px);line-height:1.5"><span style="background:var(--f2-a);border-radius:5px;padding:0 4px">下周的会议改到四点，地点不变。</span></p></div><div style="position:relative;width:100%;aspect-ratio:900/940;overflow:hidden;border-radius:8% / 7.6%;background:#E4E5E9;box-shadow:0 12px 32px var(--shadow)"><img src="/parroting/assets/iphone/guide/zh-Hans/kb-translate.jpg" loading="lazy" alt="学舌鸟键盘翻译页" style="position:absolute;max-width:none;width:102%;left:-1%;top:-2.5%;display:block"><span style="position:absolute;left:51.02%;top:35.63%;width:45.9%;height:11.029%;box-sizing:border-box;border:3px solid #247A52;border-radius:18px;background:rgba(36,122,82,.10);box-shadow:0 0 0 5px rgba(255,255,255,.75)"><b style="position:absolute;left:-14px;top:-14px;width:28px;height:28px;border-radius:50%;background:#247A52;color:#FFFFFF;border:3px solid #FFFFFF;box-sizing:border-box;font-size:13px;display:flex;align-items:center;justify-content:center">1</b></span><span style="position:absolute;left:1.04%;top:72.394%;width:12.75%;height:10.714%;box-sizing:border-box;border:3px solid #247A52;border-radius:18px;background:rgba(36,122,82,.10);box-shadow:0 0 0 5px rgba(255,255,255,.75)"><b style="position:absolute;left:-14px;top:-14px;width:28px;height:28px;border-radius:50%;background:#247A52;color:#FFFFFF;border:3px solid #FFFFFF;box-sizing:border-box;font-size:13px;display:flex;align-items:center;justify-content:center">2</b></span></div><div style="position:relative;z-index:2;background:var(--f1-res);border:1px solid var(--f1-bd);border-radius:22px;padding:clamp(14px,1.6cqi,20px) clamp(16px,1.8cqi,24px);display:flex;gap:12px;align-items:center;box-shadow:0 12px 32px var(--shadow);margin:-20px 0 0 10%"><span style="flex:none;font-size:12px;font-weight:700;color:var(--f1-ink);background:var(--f1-pill);border-radius:999px;padding:3px 10px;white-space:nowrap">English</span><p style="margin:0;font-size:clamp(17px,1.6cqi,22px);line-height:1.5;font-weight:800">Next week’s meeting moves to 4 pm. Same room.</p></div></div>
@@ -301,7 +301,7 @@ a{text-decoration:none}
         <div style="display:flex;flex-direction:column;align-items:flex-start;gap:10px"><div style="display:flex;align-items:center;gap:10px;background:var(--bubble);border-radius:999px;padding:9px 18px;font-size:17px;box-shadow:0 6px 18px var(--shadow)"><s style="color:var(--muted)">爱可劳德</s><span style="color:var(--f1-ink)">→</span><b>iCloud</b></div><div style="display:flex;align-items:center;gap:10px;background:var(--bubble);border-radius:999px;padding:9px 18px;font-size:17px;box-shadow:0 6px 18px var(--shadow)"><s style="color:var(--muted)">王晓明</s><span style="color:var(--f1-ink)">→</span><b>王小明</b></div></div>
       </div>
       <div style="flex:1.4 1 360px;min-width:0;border-radius:32px;background:radial-gradient(60% 70% at 20% 30%,var(--f1-a),transparent 70%),var(--f1-base);padding:clamp(18px,3.4cqi,48px);display:flex;justify-content:center">
-        <div style="width:100%;max-width:440px;box-shadow:0 12px 32px var(--shadow);border-radius:18px"><div style="position:relative;width:100%;aspect-ratio:644/575;overflow:hidden;border-radius:18px;border:1px solid var(--line);background:#F4F2EE"><img src="/parroting/assets/iphone/guide/zh-Hans/dictionary.jpg" alt="学舌鸟词典里的词汇" loading="lazy" style="position:absolute;inset:0;width:100%;height:100%;object-fit:cover;display:block"></div></div>
+        <div style="width:100%;max-width:440px;box-shadow:0 12px 32px var(--shadow);border-radius:18px"><div style="position:relative;width:100%;aspect-ratio:972/875;overflow:hidden;border-radius:18px;border:1px solid var(--line);background:#F4F2EE"><img src="/parroting/assets/iphone/guide/zh-Hans/dictionary.jpg" alt="学舌鸟词典里的词汇" loading="lazy" style="position:absolute;inset:0;width:100%;height:100%;object-fit:cover;display:block"></div></div>
       </div>
     </div>
     <div style="margin-top:clamp(56px,6cqi,96px);display:flex;flex-direction:column;gap:20px">
@@ -342,21 +342,21 @@ a{text-decoration:none}
     <div style="display:grid;grid-template-columns:repeat(auto-fit,minmax(min(100%,400px),1fr));gap:20px;align-items:start">
       <div style="background:var(--card);border:1px solid var(--line);border-radius:28px;padding:clamp(20px,2.4cqi,32px);display:flex;flex-direction:column;gap:16px">
         <div style="display:flex;flex-direction:column;gap:6px"><h3 style="margin:0;font-size:clamp(20px,1.8cqi,24px);font-weight:800">AI 来源</h3><p style="margin:0;font-size:16px;line-height:1.7;color:var(--muted);text-wrap:pretty"><b style="color:var(--ink)">Apple 内置</b>：用 iPhone 上的 Apple 智能，免费、不用网络，文字不离开手机。<br><b style="color:var(--ink)">我的 API key</b>：粘贴 Gemini、OpenAI、OpenRouter、Groq 或自定义的 key，文字从手机直接发送到你选的服务，不经过学舌鸟。</p></div>
-        <div style="position:relative;width:100%;aspect-ratio:644/492;overflow:hidden;border-radius:18px;border:1px solid var(--line);background:#F4F2EE"><img src="/parroting/assets/iphone/guide/zh-Hans/ai-source.jpg" alt="设置里的 AI 来源" loading="lazy" style="position:absolute;inset:0;width:100%;height:100%;object-fit:cover;display:block"></div>
+        <div style="position:relative;width:100%;aspect-ratio:972/759;overflow:hidden;border-radius:18px;border:1px solid var(--line);background:#F4F2EE"><img src="/parroting/assets/iphone/guide/zh-Hans/ai-source.jpg" alt="设置里的 AI 来源" loading="lazy" style="position:absolute;inset:0;width:100%;height:100%;object-fit:cover;display:block"></div>
       </div>
       <div style="background:var(--card);border:1px solid var(--line);border-radius:28px;padding:clamp(20px,2.4cqi,32px);display:flex;flex-direction:column;gap:16px">
         <div style="display:flex;flex-direction:column;gap:6px"><h3 style="margin:0;font-size:clamp(20px,1.8cqi,24px);font-weight:800">记录</h3><p style="margin:0;font-size:16px;line-height:1.7;color:var(--muted);text-wrap:pretty">在下方的「记录」标签页：说过的每一句都留着，可以搜索，也能看整理前的原文。</p></div>
-        <div style="position:relative;width:100%;aspect-ratio:644/440;overflow:hidden;border-radius:18px;border:1px solid var(--line);background:#F4F2EE"><img src="/parroting/assets/iphone/guide/zh-Hans/history.jpg" alt="记录页" loading="lazy" style="position:absolute;inset:0;width:100%;height:100%;object-fit:cover;display:block"></div>
+        <div style="position:relative;width:100%;aspect-ratio:972/687;overflow:hidden;border-radius:18px;border:1px solid var(--line);background:#F4F2EE"><img src="/parroting/assets/iphone/guide/zh-Hans/history.jpg" alt="记录页" loading="lazy" style="position:absolute;inset:0;width:100%;height:100%;object-fit:cover;display:block"></div>
       </div>
     </div>
     <div style="margin-top:20px;display:grid;grid-template-columns:repeat(auto-fit,minmax(min(100%,280px),1fr));gap:20px;align-items:start">
       <div style="background:var(--card);border:1px solid var(--line);border-radius:28px;padding:clamp(20px,2.4cqi,32px);display:flex;flex-direction:column;gap:16px">
         <div style="display:flex;flex-direction:column;gap:6px"><h3 style="margin:0;font-size:clamp(20px,1.8cqi,24px);font-weight:800">识别语言</h3><p style="margin:0;font-size:16px;line-height:1.7;color:var(--muted);text-wrap:pretty">默认跟着系统。讲其他语言时，到这里换。</p></div>
-        <div style="position:relative;width:100%;aspect-ratio:644/126;overflow:hidden;border-radius:18px;border:1px solid var(--line);background:#F4F2EE"><img src="/parroting/assets/iphone/guide/zh-Hans/recognition.jpg" alt="设置里的识别语言" loading="lazy" style="position:absolute;inset:0;width:100%;height:100%;object-fit:cover;display:block"></div>
+        <div style="position:relative;width:100%;aspect-ratio:972/248;overflow:hidden;border-radius:18px;border:1px solid var(--line);background:#F4F2EE"><img src="/parroting/assets/iphone/guide/zh-Hans/recognition.jpg" alt="设置里的识别语言" loading="lazy" style="position:absolute;inset:0;width:100%;height:100%;object-fit:cover;display:block"></div>
       </div>
       <div style="background:var(--card);border:1px solid var(--line);border-radius:28px;padding:clamp(20px,2.4cqi,32px);display:flex;flex-direction:column;gap:16px">
         <div style="display:flex;flex-direction:column;gap:6px"><h3 style="margin:0;font-size:clamp(20px,1.8cqi,24px);font-weight:800">我的信息</h3><p style="margin:0;font-size:16px;line-height:1.7;color:var(--muted);text-wrap:pretty">署名、职位填一次，邮件格式自动带入。</p></div>
-        <div style="position:relative;width:100%;aspect-ratio:644/90;overflow:hidden;border-radius:18px;border:1px solid var(--line);background:#F4F2EE"><img src="/parroting/assets/iphone/guide/zh-Hans/my-info.jpg" alt="设置里的我的信息" loading="lazy" style="position:absolute;inset:0;width:100%;height:100%;object-fit:cover;display:block"></div>
+        <div style="position:relative;width:100%;aspect-ratio:972/198;overflow:hidden;border-radius:18px;border:1px solid var(--line);background:#F4F2EE"><img src="/parroting/assets/iphone/guide/zh-Hans/my-info.jpg" alt="设置里的我的信息" loading="lazy" style="position:absolute;inset:0;width:100%;height:100%;object-fit:cover;display:block"></div>
       </div>
       <div style="background:var(--card);border:1px solid var(--line);border-radius:28px;padding:clamp(20px,2.4cqi,32px);display:flex;flex-direction:column;gap:16px">
         <div style="display:flex;flex-direction:column;gap:6px"><h3 style="margin:0;font-size:clamp(20px,1.8cqi,24px);font-weight:800">遇到问题</h3><p style="margin:0;font-size:16px;line-height:1.7;color:var(--muted);text-wrap:pretty">在 App 里直接告诉我们。</p></div>
